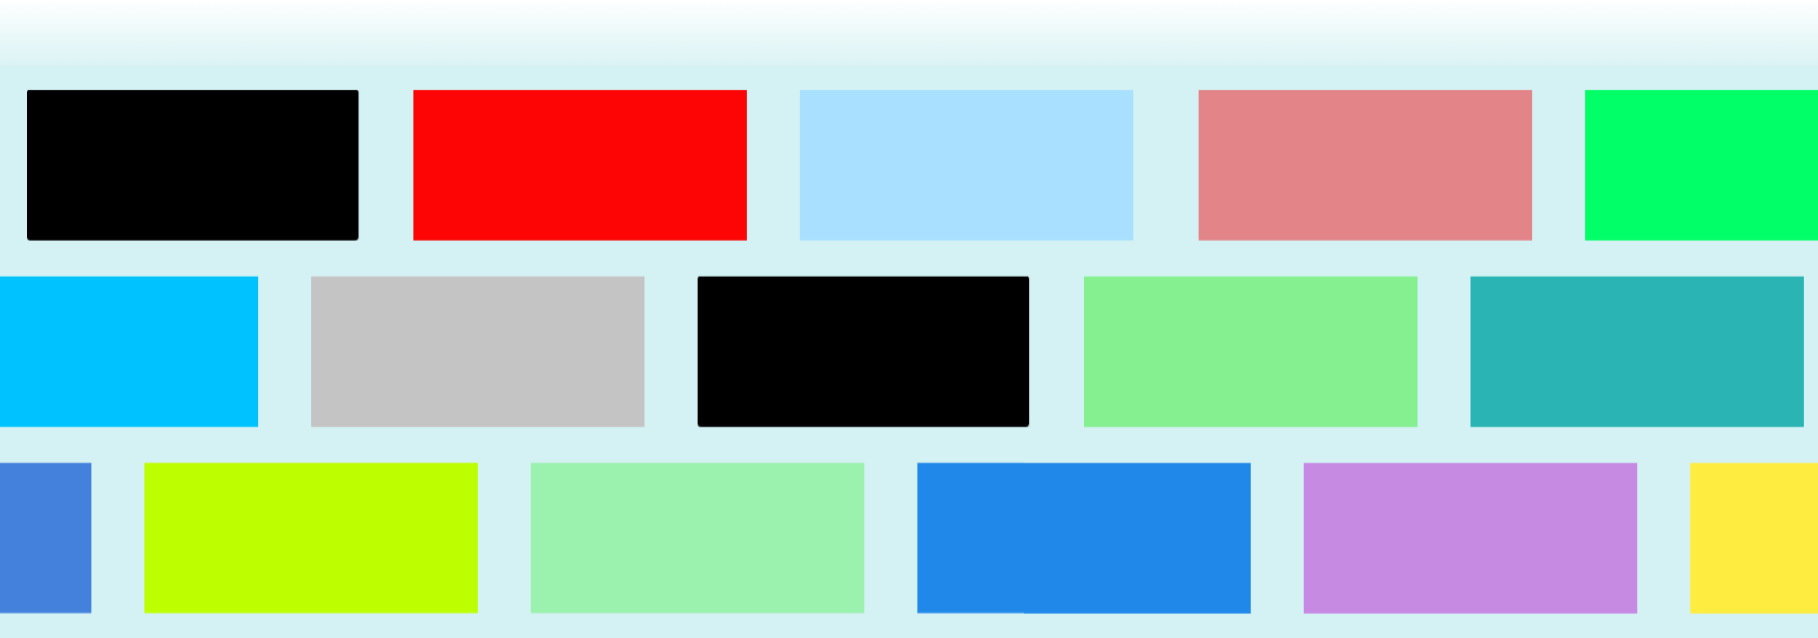
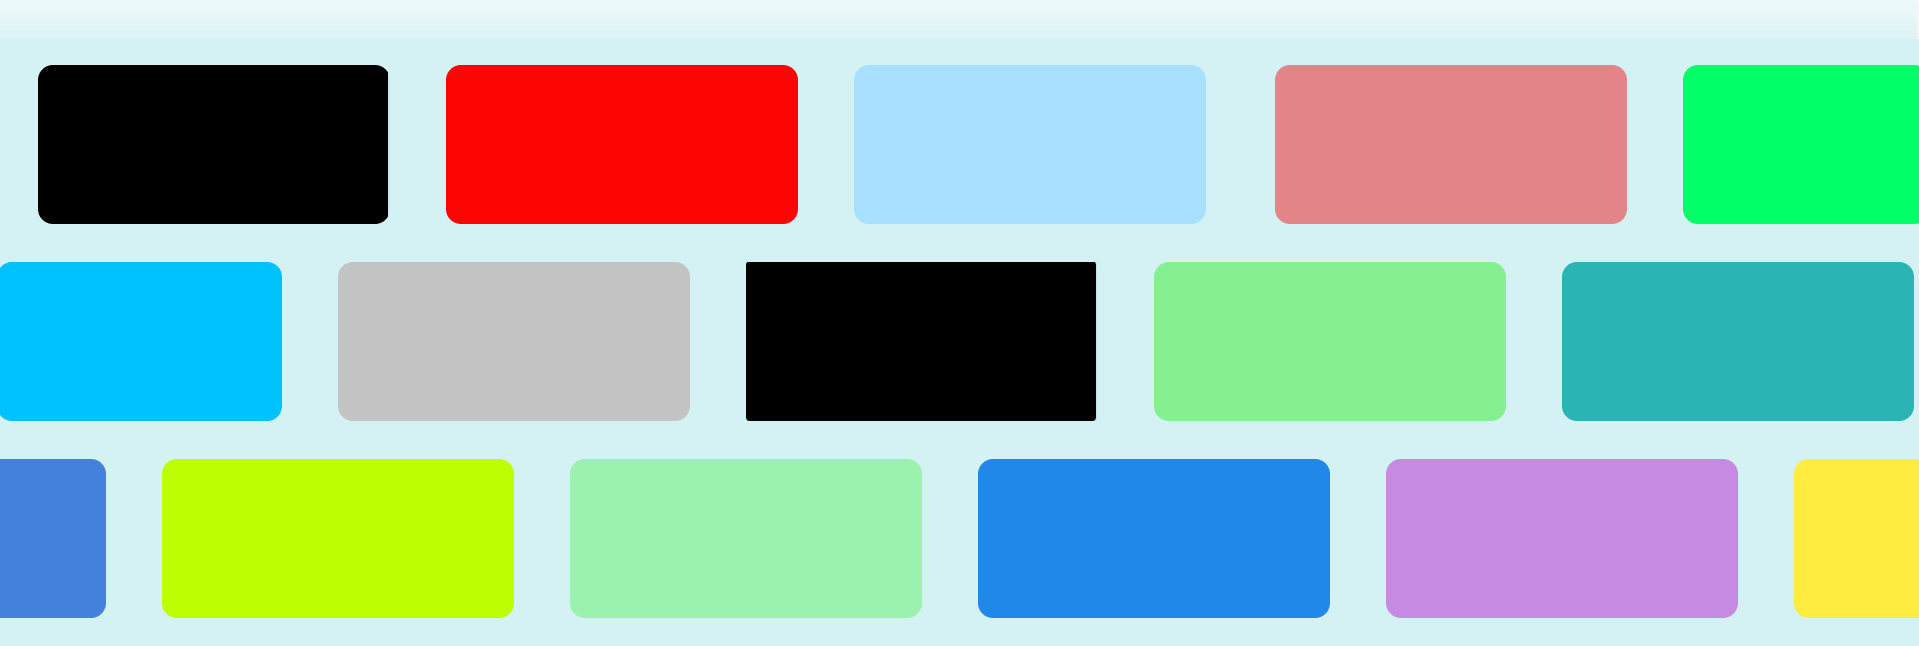
New background

Changed region(s): [[0.0, 0.0893, 1.0, 0.9828]]

diff --git a/src/components/EarlyAccessLandingPage.js b/src/components/EarlyAccessLandingPage.js
@@ -1,6 +1,6 @@
 import React, { Component } from "react";
 import "./landingpage.css";
-import background from "../images/background3.png";
+import background from "../images/background2.png";
 import TextField from "@material-ui/core/TextField";
 import Navbar from "./Navbar";
 import Grid from "@material-ui/core/Grid";
